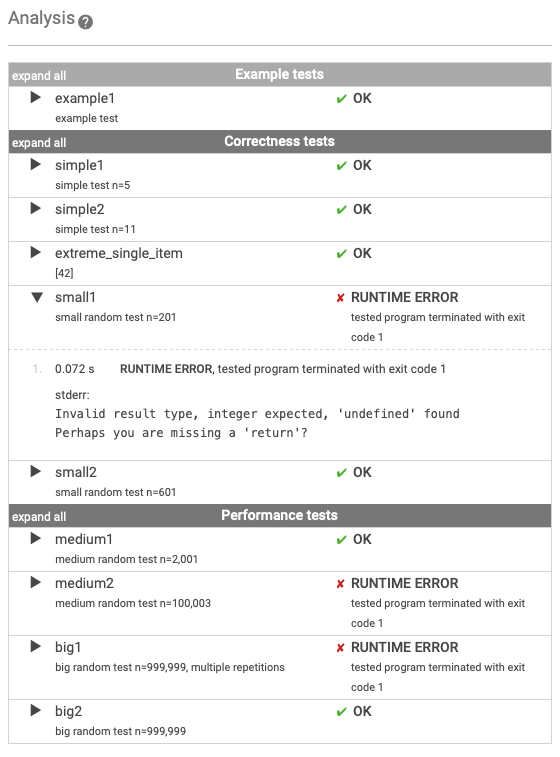
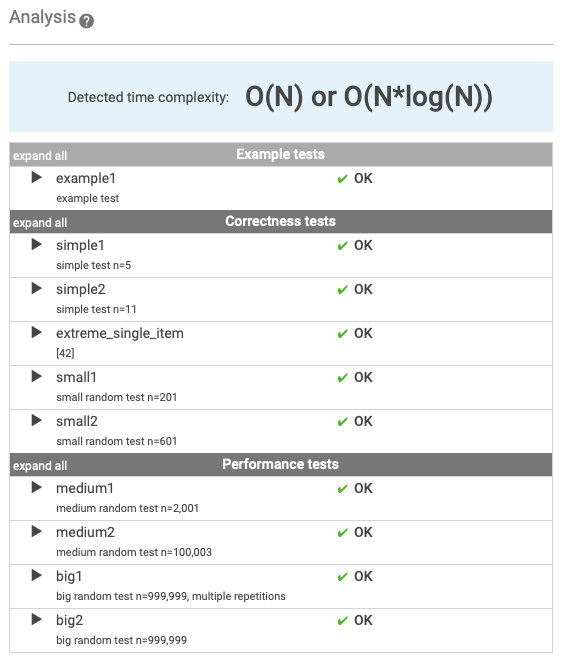
finish "Odd Occurrences In Array" with 100% result

diff --git a/3.OddOccurrencesInArray /solution.js b/3.OddOccurrencesInArray /solution.js
@@ -1,14 +1,11 @@
-function solution(A){
+function solution(A) {
+  let result = 0;
 
-  let sortArr = A.sort((a, b) =>  a - b );
+  for (let item of A) {
+    result ^= item
+  }
 
-  let result = sortArr.filter((item, index) => {
-    if(item !== A[index + 1] && item !== A[index - 1]){
-      return item;
-    }
-  });
-
-  return result[0]
+  return result
 }
 
 solution([9.5, 3, 9.5, 3, 9, 7, 9]);
